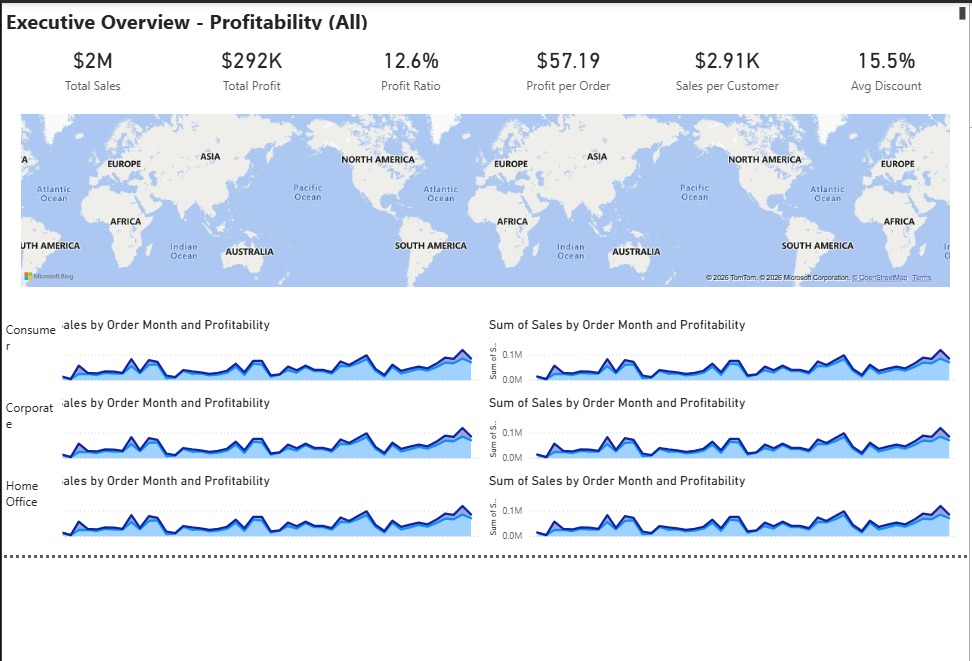
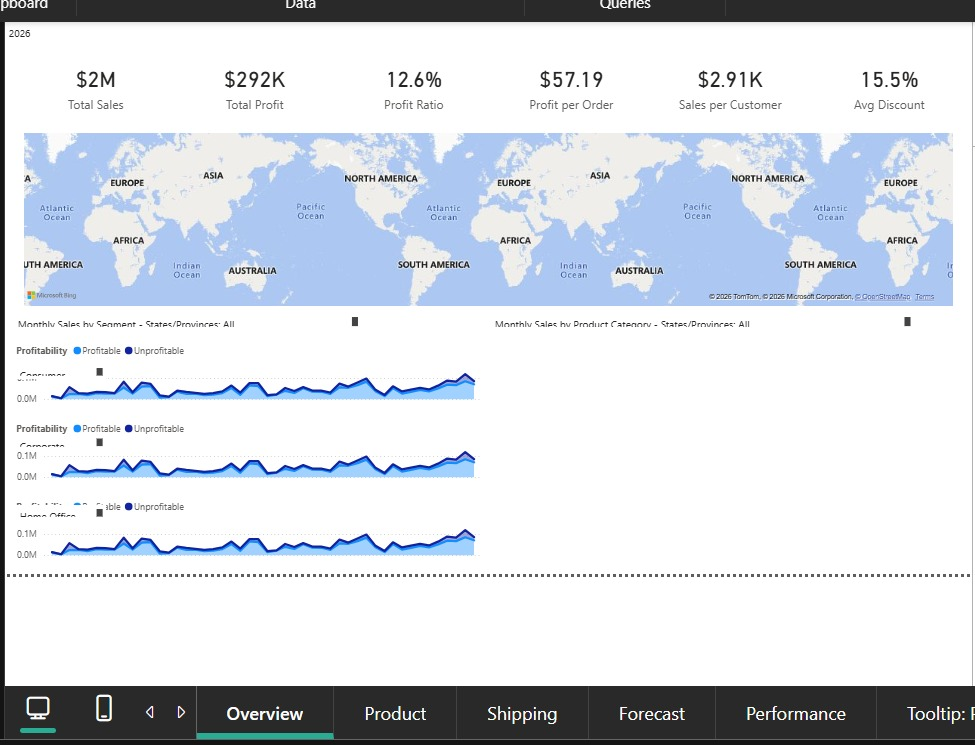
moved files

diff --git a/auto_convert_pbip_visuals.py b/auto_convert_pbip_visuals.py
@@ -379,6 +379,45 @@ def hide_visual_title(visual: dict):
     return visual
 
 
+def ensure_area_query_state(query_state: dict):
+    if "Category" not in query_state:
+        query_state["Category"] = {
+            "projections": [
+                {
+                    "field": {
+                        "Column": {
+                            "Expression": {"SourceRef": {"Entity": "Orders"}},
+                            "Property": "Order Month",
+                        }
+                    },
+                    "queryRef": "Orders.Order Month",
+                    "nativeQueryRef": "Order Month",
+                }
+            ]
+        }
+    if "Y" not in query_state:
+        query_state["Y"] = {
+            "projections": [
+                {
+                    "field": {
+                        "Aggregation": {
+                            "Expression": {
+                                "Column": {
+                                    "Expression": {"SourceRef": {"Entity": "Orders"}},
+                                    "Property": "Sales",
+                                }
+                            },
+                            "Function": 0,
+                        }
+                    },
+                    "queryRef": "Sum(Orders.Sales)",
+                    "nativeQueryRef": "Sum of Sales",
+                }
+            ]
+        }
+    return query_state
+
+
 def read_snapshot_names(snapshots_dir: Path) -> List[str]:
     if not snapshots_dir.exists():
         return []
@@ -755,6 +794,7 @@ def split_segment_visuals(
                     }
                 ]
             }
+        query_state = ensure_area_query_state(query_state)
         visual_json["visual"]["query"]["queryState"] = query_state
 
         filter_config = visual_json.get("filterConfig", {})
@@ -797,7 +837,7 @@ def split_category_visuals(
     for visual in visuals:
         name = str(visual.get("json", {}).get("name", ""))
         fields_text = " ".join(visual.get("fields", [])).lower()
-        if name.startswith("cat_"):
+        if name.startswith("cat_") and visual.get("visual_type") != "textbox":
             category_visual = visual
             break
         if (
@@ -886,7 +926,7 @@ def split_category_visuals(
     # Remove existing category split visuals
     for visual in list(visuals):
         name = str(visual.get("json", {}).get("name", ""))
-        if name.startswith("cat_"):
+        if name.startswith("cat_") and name != "cat_title":
             cat_dir = Path(visual["path"]).parent
             if cat_dir.exists():
                 shutil.rmtree(cat_dir)
@@ -894,7 +934,7 @@ def split_category_visuals(
 
     # Remove the original category visual folder
     original_dir = Path(category_visual["path"]).parent
-    if original_dir.exists():
+    if original_dir.exists() and original_dir.name != "cat_title":
         shutil.rmtree(original_dir)
 
     base_json = category_visual["json"]
@@ -941,6 +981,7 @@ def split_category_visuals(
                     }
                 ]
             }
+        query_state = ensure_area_query_state(query_state)
         visual_json["visual"]["query"]["queryState"] = query_state
 
         filter_config = visual_json.get("filterConfig", {})
@@ -1119,7 +1160,14 @@ def apply_layout_overrides(
     visuals_dir: Path,
 ):
     if profile == "overview":
-        title = [v for v in visuals if v["visual_type"] == "textbox"]
+        title = [
+            v
+            for v in visuals
+            if v["visual_type"] == "textbox"
+            and not str(v.get("json", {}).get("name", "")).startswith(
+                ("seg_label_", "year_label_", "seg_title", "cat_title")
+            )
+        ]
         cards = [v for v in visuals if v["recommended_type"] == "card"]
         maps = [
             v
